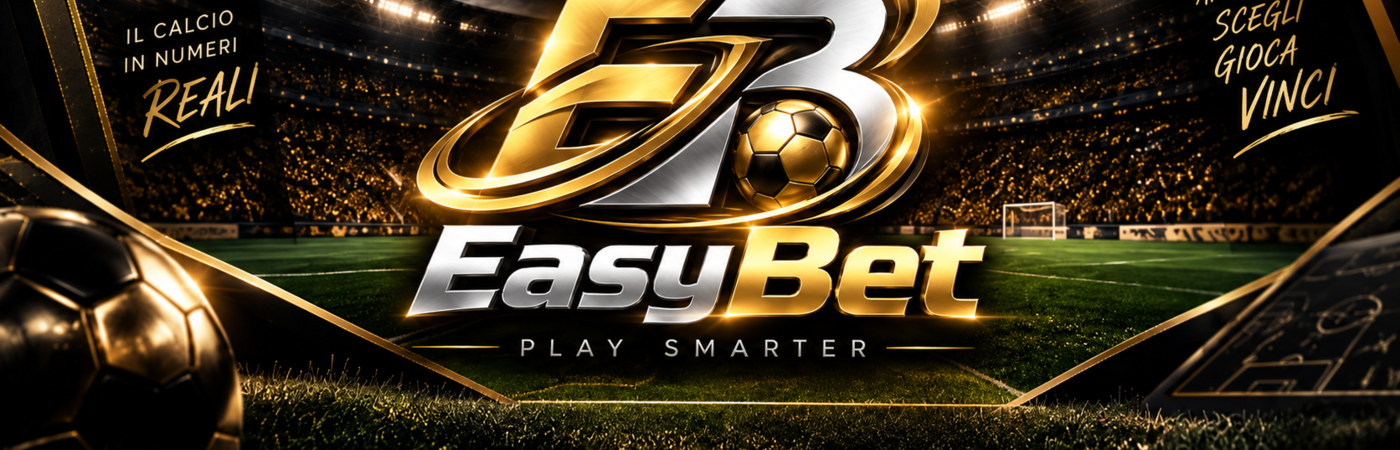
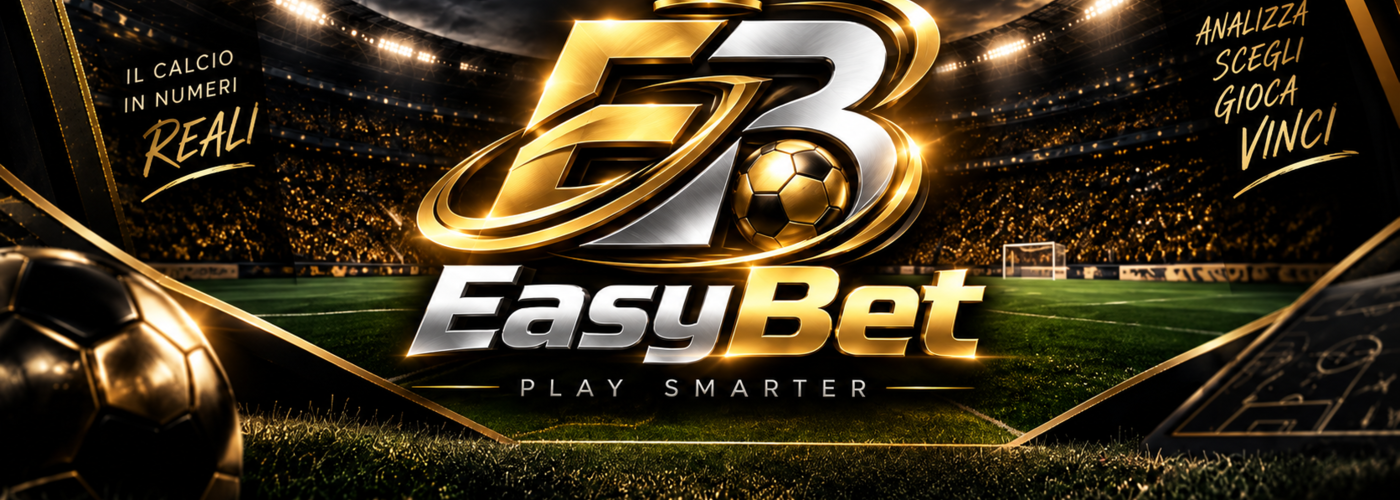
Add files via upload

diff --git a/public/easybet.html b/public/easybet.html
@@ -21,7 +21,7 @@ a{text-decoration:none;color:inherit}.num{font-family:'IBM Plex Mono',monospace}
 .brand-copy{line-height:1}.brand-copy strong{font-size:1.28rem}.brand-copy strong span{color:var(--gold2)}.brand-copy small{display:block;margin-top:4px;color:#8d8473;font-size:.57rem;letter-spacing:.24em}
 .nav{display:flex;justify-content:center;gap:24px}.nav a{font-size:.78rem;color:#c3baa8;font-weight:600;padding:28px 0 24px;position:relative}.nav a.active,.nav a:hover{color:#fff}.nav a.active:after{content:"";position:absolute;left:0;right:0;bottom:12px;height:2px;background:linear-gradient(90deg,transparent,var(--gold2),transparent)}
 .nav-actions{display:flex;justify-content:flex-end;gap:10px}.nav-btn{padding:11px 19px;border-radius:10px;font-size:.76rem;font-weight:700;border:1px solid rgba(242,208,110,.28);background:#0f0f0e;color:#fff}.nav-btn.primary{background:linear-gradient(180deg,var(--gold2),var(--gold));color:#1b1407;box-shadow:0 8px 22px rgba(216,173,61,.2)}.mobile-menu-btn{display:none;width:44px;height:44px;border-radius:12px;border:1px solid rgba(242,208,110,.28);background:#0f0f0e;color:var(--gold2);font-size:1.2rem;font-weight:800;align-items:center;justify-content:center;cursor:pointer}.mobile-nav{display:none;background:#0b0b0a;border-top:1px solid rgba(242,208,110,.12);border-bottom:1px solid rgba(242,208,110,.12);padding:10px 14px 12px}.mobile-nav.open{display:grid;grid-template-columns:repeat(2,minmax(0,1fr));gap:8px}.mobile-nav a{display:flex;align-items:center;justify-content:center;min-height:46px;padding:10px;border-radius:12px;border:1px solid #2b271f;background:#11100e;color:#d8cfbe;font-size:.8rem;font-weight:700}.mobile-nav a.active,.mobile-nav a:hover{color:#171105;background:linear-gradient(180deg,var(--gold2),var(--gold));border-color:var(--gold)}
-.hero{position:relative;background:#0a0907}.hero img{width:100%;display:block;height:450px;object-fit:cover;object-position:center center}.hero:after{content:"";position:absolute;left:0;right:0;bottom:0;height:30px;background:linear-gradient(180deg,transparent,#080807)}
+.hero{position:relative;background:#0a0907}.hero img{width:100%;display:block;height:500px;object-fit:cover;object-position:center center}.hero:after{content:"";position:absolute;left:0;right:0;bottom:0;height:30px;background:linear-gradient(180deg,transparent,#080807)}
 .section{padding:14px 24px 34px;background:linear-gradient(180deg,#090909,#060606)}
 .section-head{display:flex;justify-content:space-between;align-items:center;gap:14px;padding:8px 0 12px}.title-wrap{display:flex;align-items:center;gap:12px}.accent-line{width:6px;height:34px;border-radius:3px;background:linear-gradient(180deg,var(--gold2),var(--gold));box-shadow:0 0 18px rgba(242,208,110,.24)}
 .section-head h2{margin:0;font-size:1.16rem;letter-spacing:.01em}.section-head p{margin:3px 0 0;color:#9a9180;font-size:.72rem;letter-spacing:.05em}.refresh{font-size:.7rem;color:#7f7768}
@@ -31,8 +31,8 @@ a{text-decoration:none;color:inherit}.num{font-family:'IBM Plex Mono',monospace}
 .matchup{position:relative;z-index:1;display:grid;grid-template-columns:1fr auto 1fr;align-items:center;gap:10px;padding:14px 8px 12px;border-radius:16px;background:linear-gradient(180deg,rgba(255,255,255,.025),rgba(255,255,255,.01));border:1px solid rgba(255,255,255,.05)}.team{text-align:center}.role{font-size:.58rem;text-transform:uppercase;letter-spacing:.16em;color:#b7ad99;margin-bottom:8px}.crest-wrap{width:84px;height:84px;border-radius:18px;margin:0 auto 8px;display:grid;place-items:center;background:rgba(14,14,13,.82);border:1px solid rgba(255,255,255,.08);box-shadow:inset 0 1px 0 rgba(255,255,255,.04)}.crest{width:64px;height:64px;object-fit:contain}.crest.placeholder{display:grid;place-items:center;color:#d8c39b;font-weight:800;font-size:1rem}.team-name{font-size:.92rem;font-weight:800}.vs{width:46px;height:46px;border-radius:50%;display:grid;place-items:center;background:linear-gradient(180deg,var(--gold2),var(--gold));color:#1a1408;font-weight:800;box-shadow:0 6px 14px rgba(216,173,61,.22)}
 .info-grid{position:relative;z-index:1;display:grid;grid-template-columns:1fr 1fr;gap:0;border-top:1px solid rgba(243,210,113,.55);margin-top:2px;padding-top:10px}.info{background:transparent;border:none;border-radius:0;padding:0 10px}.info + .info{border-left:1px solid rgba(243,210,113,.45)}.info label{font-size:.58rem;text-transform:uppercase;letter-spacing:.09em;color:#b7ad99}.info strong{display:block;margin-top:6px;font-size:1.08rem}.info.strategy strong{font-size:.9rem;line-height:1.22}
 .status{position:relative;z-index:1;margin-top:auto;padding:10px 14px;border-radius:14px;text-transform:uppercase;border:1px solid;display:flex;align-items:center;justify-content:center;gap:12px;min-height:56px}.status-icon{font-size:1.7rem;line-height:1}.status-copy{display:flex;flex-direction:column;align-items:flex-start;line-height:1}.status-copy small{font-size:.55rem;letter-spacing:.18em;opacity:.95;margin-bottom:4px}.status-copy strong{font-size:1rem;letter-spacing:.02em}.status.entrata_vinta{color:#18ff63;background:linear-gradient(180deg,rgba(4,90,33,.90),rgba(7,71,28,.96));border-color:rgba(30,242,103,.92);box-shadow:inset 0 0 0 1px rgba(30,242,103,.22),0 0 18px rgba(30,242,103,.24)}.status.entrata_persa{color:#ffd9d8;background:linear-gradient(180deg,rgba(120,19,18,.92),rgba(94,13,12,.96));border-color:rgba(255,85,79,.92);box-shadow:inset 0 0 0 1px rgba(255,85,79,.18),0 0 16px rgba(255,85,79,.22)}.status.non_entrata{color:#ffe8a2;background:linear-gradient(180deg,rgba(112,87,14,.92),rgba(94,70,9,.96));border-color:rgba(255,211,79,.92);box-shadow:inset 0 0 0 1px rgba(255,211,79,.18),0 0 16px rgba(255,211,79,.20)}.status.attesa{color:#eef2f8;background:linear-gradient(180deg,rgba(58,63,74,.62),rgba(44,48,56,.74));border-color:rgba(170,177,188,.38)}.empty{grid-column:1/-1;text-align:center;color:#847b6b;padding:50px}
-@media(max-width:900px){.page-shell{width:min(100vw - 16px,100vw - 16px);margin:8px auto 20px}.topbar{grid-template-columns:1fr auto auto;height:auto;padding:12px 16px}.nav{display:none}.mobile-menu-btn{display:flex}.hero img{height:300px;object-fit:cover;object-position:center center}.section{padding:12px 14px 28px}.grid{grid-template-columns:repeat(auto-fill,minmax(210px,1fr));justify-content:stretch}.nav-actions{gap:6px}.nav-btn{padding:9px 12px}}
-@media(max-width:560px){body{background:#070707}.page-shell{width:100%;margin:0;border-radius:0}.topbar{grid-template-columns:1fr auto auto;padding:12px}.brand-copy small{display:none}.nav-actions .nav-btn:first-child{display:none}.nav-actions .nav-btn.primary{padding:10px 14px}.mobile-menu-btn{width:42px;height:42px}.mobile-nav.open{grid-template-columns:1fr 1fr;padding:10px 12px 12px}.hero img{height:200px;object-position:center center}.toolbar{justify-content:flex-start}.pills{width:100%}.pill{flex:1}.grid{grid-template-columns:1fr}.info-grid{grid-template-columns:1fr}}
+@media(max-width:900px){.page-shell{width:min(100vw - 16px,100vw - 16px);margin:8px auto 20px}.topbar{grid-template-columns:1fr auto auto;height:auto;padding:12px 16px}.nav{display:none}.mobile-menu-btn{display:flex}.hero img{height:320px;object-fit:cover;object-position:center center}.section{padding:12px 14px 28px}.grid{grid-template-columns:repeat(auto-fill,minmax(210px,1fr));justify-content:stretch}.nav-actions{gap:6px}.nav-btn{padding:9px 12px}}
+@media(max-width:560px){body{background:#070707}.page-shell{width:100%;margin:0;border-radius:0}.topbar{grid-template-columns:1fr auto auto;padding:12px}.brand-copy small{display:none}.nav-actions .nav-btn:first-child{display:none}.nav-actions .nav-btn.primary{padding:10px 14px}.mobile-menu-btn{width:42px;height:42px}.mobile-nav.open{grid-template-columns:1fr 1fr;padding:10px 12px 12px}.hero img{height:220px;object-position:center center}.toolbar{justify-content:flex-start}.pills{width:100%}.pill{flex:1}.grid{grid-template-columns:1fr}.info-grid{grid-template-columns:1fr}}
 
 .stats-dashboard{display:none;grid-template-columns:repeat(12,minmax(0,1fr));gap:16px;margin-top:6px}.stats-dashboard.show{display:grid}.stat-box{grid-column:span 3;background:linear-gradient(180deg,#141310,#0c0c0b);border:1px solid #2c2922;border-radius:18px;padding:18px;box-shadow:0 12px 28px rgba(0,0,0,.22)}.stat-box .stat-label{font-size:.68rem;color:#978e7e;text-transform:uppercase;letter-spacing:.12em}.stat-box .stat-value{font-size:2rem;font-weight:800;margin-top:8px}.stat-box .stat-foot{font-size:.72rem;color:#8d8474;margin-top:6px}.stat-box.win{border-color:rgba(36,216,108,.34)}.stat-box.win .stat-value{color:var(--green)}.stat-box.loss{border-color:rgba(255,75,69,.34)}.stat-box.loss .stat-value{color:var(--red)}.stat-box.skip{border-color:rgba(240,200,60,.34)}.stat-box.skip .stat-value{color:var(--yellow)}.stat-box.rate{border-color:rgba(243,210,113,.34)}.stat-box.rate .stat-value{color:var(--gold2)}.chart-box{grid-column:span 6;background:linear-gradient(180deg,#12110f,#0b0b0a);border:1px solid #2b271f;border-radius:20px;padding:18px;min-height:320px}.chart-title{font-size:.92rem;font-weight:800}.chart-sub{font-size:.7rem;color:#8c8373;margin-top:3px}.donut-wrap{display:flex;align-items:center;justify-content:center;gap:26px;height:250px;flex-wrap:wrap}.donut{width:190px;height:190px;border-radius:50%;position:relative;background:conic-gradient(var(--green) 0 var(--winPct,0%),var(--red) var(--winPct,0%) calc(var(--winPct,0%) + var(--lossPct,0%)),var(--yellow) calc(var(--winPct,0%) + var(--lossPct,0%)) 100%);box-shadow:0 0 28px rgba(0,0,0,.35)}.donut:after{content:'';position:absolute;inset:31px;border-radius:50%;background:#0e0e0d;border:1px solid #26231d}.donut-center{position:absolute;inset:0;display:grid;place-items:center;z-index:2;text-align:center}.donut-center strong{font-size:1.7rem}.donut-center span{font-size:.62rem;color:#8f8778;text-transform:uppercase;letter-spacing:.1em}.chart-legend{display:flex;flex-direction:column;gap:12px;min-width:170px}.chart-legend-row{display:flex;align-items:center;justify-content:space-between;gap:16px;font-size:.78rem}.chart-legend-row span:first-child{display:flex;align-items:center;gap:8px}.dot{width:10px;height:10px;border-radius:50%}.dot.g{background:var(--green)}.dot.r{background:var(--red)}.dot.y{background:var(--yellow)}.trend-wrap{height:250px;margin-top:14px;position:relative}.trend-svg{width:100%;height:100%;overflow:visible}.trend-grid{stroke:rgba(255,255,255,.08);stroke-width:1}.trend-line{fill:none;stroke:var(--gold2);stroke-width:3;filter:drop-shadow(0 0 6px rgba(243,210,113,.28))}.trend-area{fill:url(#trendArea)}.trend-point{fill:var(--gold2);stroke:#120f09;stroke-width:2}.trend-labels{display:flex;justify-content:space-between;color:#756d60;font-size:.62rem;margin-top:6px}.stats-note{grid-column:1/-1;color:#8f8676;font-size:.72rem;line-height:1.5;padding:0 2px}.stats-empty{grid-column:1/-1;padding:55px;text-align:center;border:1px dashed #332d22;border-radius:18px;color:#857c6e}@media(max-width:900px){.stat-box{grid-column:span 6}.chart-box{grid-column:1/-1}}@media(max-width:560px){.stat-box{grid-column:1/-1}.donut-wrap{height:auto;padding:18px 0}.chart-box{min-height:290px}}
 
